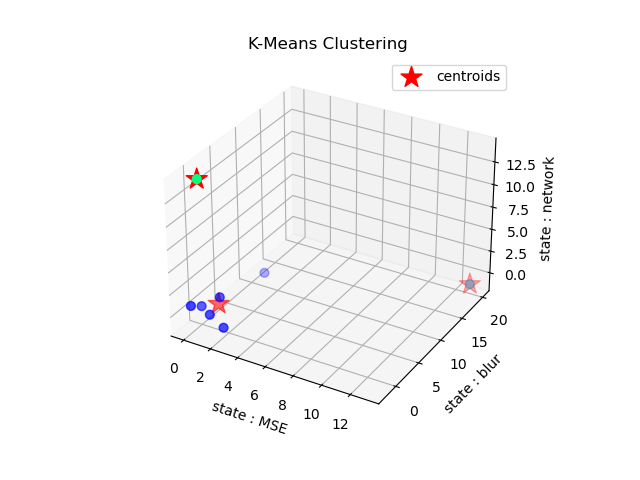
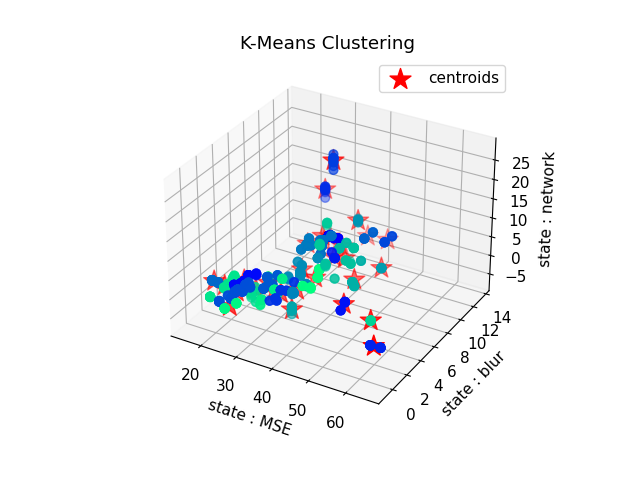
fix : etc bug

diff --git a/enviroment.py b/enviroment.py
@@ -25,7 +25,7 @@ class ReplayBuffer():
             self.buffer.append(trans)
             
     def get(self):
-        trans = random.sample(self.buffer, 1)  # batch size = 1
+        trans = random.choice(self.buffer)  # batch size = 1
         return trans
 
     def size(self):
@@ -203,6 +203,12 @@ class FrameEnv():
             else :
                 r_net = self.beta * ((self.fps - a) / self.fps) * (A_diff)
             r = (1 - self.alpha) * (r_blur - r_dup) + self.alpha * (r_net)
+            print("===== reward =====")
+            print("r_blur:", r_blur)
+            print("r_dup:", r_dup)
+            print("r_net:", r_net)
+            print("R:", r)
+            print("==================")
             self.transList[i].append(r)
             self.idx += a+1
         return
@@ -214,7 +220,6 @@ class Communicator(Exception):
         self.pipe = self.init_pipe(self.pipeName, self.buffer_size)
 
     def send_omnet_message(self, msg):
-        print("msg :", msg)
         win32file.WriteFile(self.pipe, msg.encode('utf-8'))  # wait unil complete reward cal & a(t)
         
     def get_omnet_message(self):

diff --git a/train.py b/train.py
@@ -21,7 +21,7 @@ def _main():
             a = agentV.get_action(s)
             s, done = envV.step(a)
         print("buffer size:", envV.buffer.size())
-        if envV.buffer.size() > 200:
+        if envV.buffer.size() > 50:
             print("Q update ...")
             for _ in range(50):
                 trans = envV.buffer.get()
@@ -29,7 +29,7 @@ def _main():
         # cluster update
         if len(envV.data) > 50 :
             print("clustering ... ")
-            envV.model = cluster_train(envV.model, np.array(envV.data))
+            envV.model = cluster_train(envV.model, np.array(envV.data), visualize=True)
             isClusterexist = True
         if isClusterexist :
             agentV.decrease_eps()
